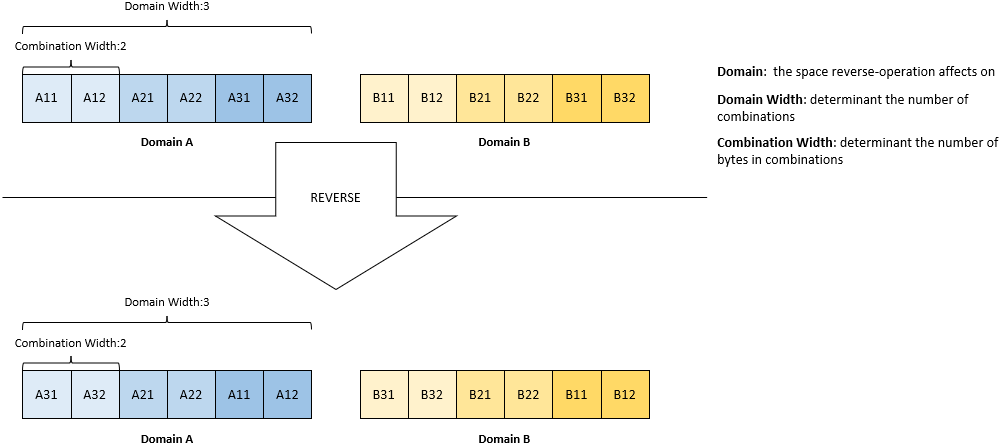
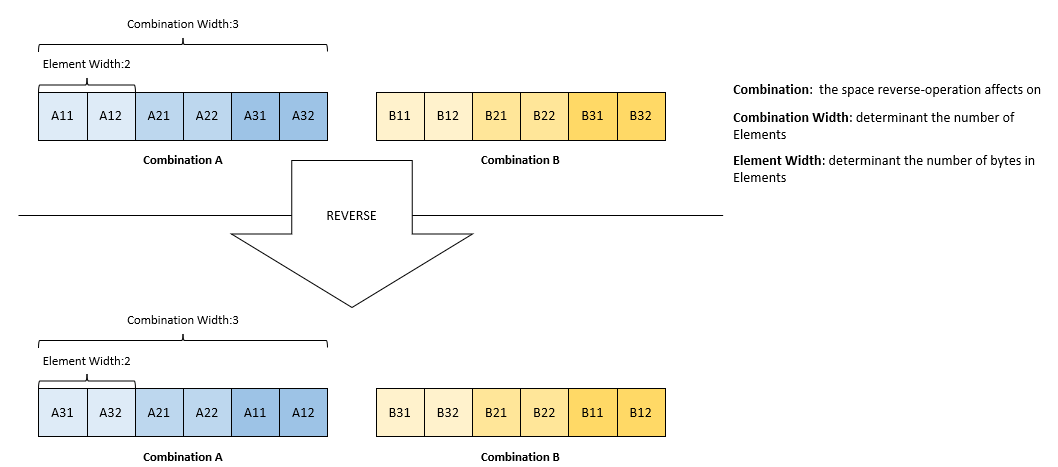
update category

diff --git a/main.cpp b/main.cpp
@@ -141,7 +141,8 @@ private:
 class BReorder{
 public:
     BReorder(int argn, char* argv[]):
-    _argn(argn), _argv(argv){
+    _argn(argn), _argv(argv),
+    _domainWidth(2), _combinationWidth(1){
 
     };
     inline void run(){
@@ -196,6 +197,7 @@ private:
     string _finPath;
     string _foutPath;
     unsigned int _combinationWidth;
+    unsigned int _domainWidth;
     
     //param list
     int _argn;

diff --git a/README.md b/README.md
@@ -31,9 +31,9 @@ inline void run(){
 - *brd [fileDir/fileName.suffix]*
 
 default value of parameters:
-| combination width | Domain width |
+| Element width | Combination width |
 | :---: | :---: |
-|1 bytes | 2 combinations |
+|1 Bytes | 2 Element |
 
 *ex:*
 - *brd ./a.bin*
@@ -44,14 +44,14 @@ the effect of this command is just as below:
 | :---: | :---: |
 | 0x12345678 | 0x87654321 | 
 
-### 2.2 Assign Combination width
+### 2.2 Assign Element width
 you can assign n-bytes combination as follows
-- *brd -C [n] [fileDir/fileName.suffix]*\
+- *brd -E [n] [fileDir/fileName.suffix]*\
 number should be an arabic figures less than the size of input file
 
-### 2.4 Assign Domain width
+### 2.4 Assign Combination width
 n-bytes combination as follows
-- *brd -D [n]* [fileDir/fileName.suffix]
+- *brd -C [n]* [fileDir/fileName.suffix]
 
 ### 2.3 To text
 Transforming into text file
